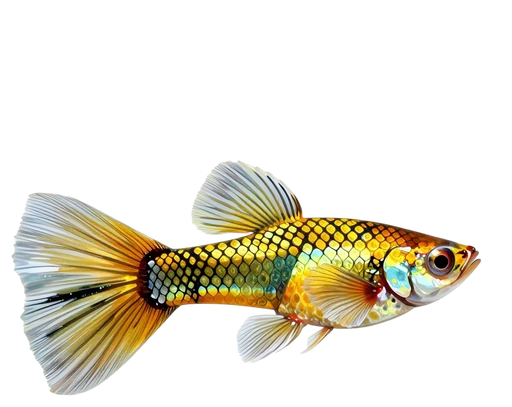
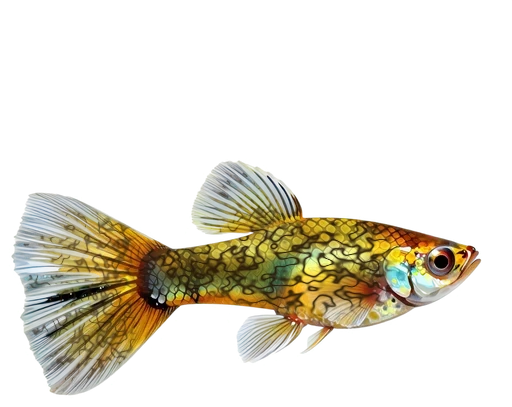
孔雀魚半月、燕尾、蛇王用程式重畫 (#269)
半月尾改成 D 字扇形，燕尾改成上下延長的尖刺鰭條，黃金蛇王與紅蛇王
身體和尾鰭加上蛇紋（對照 design/guppy-strain-audit.md）。新圖的身體
位置照基本款換算到 finArt bodyY。

Claude-Session: https://claude.ai/code/session_01KsbS4vLZbfPytVNgNzSz4q

Changed region(s): [[0.0625, 0.5012, 0.7812, 0.914], [0.0312, 0.6781, 0.125, 0.7076]]

diff --git a/src/render/painted.ts b/src/render/painted.ts
@@ -77,16 +77,17 @@ export const PAINTED: Record<string, PaintedSpec> = {
 
 /**
  * 緞帶、燕尾、半月的整條魚圖（5 種花紋各一張，art/fish/fins/）。
- * 緞帶下面多一大片垂下來的帶子，身體在圖裡偏上；半月的尾巴大，身體偏下。
+ * 緞帶下面多一大片垂下來的帶子，身體在圖裡偏上。
+ * 燕尾、半月是從基本款的圖用程式改尾巴做的（品系對照 design/guppy-strain-audit.md）：身體位置照基本款換算。
  */
 function finArt(): Record<string, PaintedSpec> {
   const bodyY: Record<string, [number, number, number]> = {
     // 花紋：緞帶、燕尾、半月的身體中心 y（相對圖高）
-    bluegrass: [-0.05, 0.03, 0.12],
-    cobra: [-0.05, 0.03, 0.1],
-    'albino-red': [-0.2, 0, 0.1],
-    tuxedo: [-0.18, 0.05, 0.09],
-    redcobra: [-0.24, 0.01, 0.13],
+    bluegrass: [-0.05, -0.086, -0.039],
+    cobra: [-0.05, -0.036, -0.028],
+    'albino-red': [-0.2, 0.173, 0.113],
+    tuxedo: [-0.18, -0.163, -0.096],
+    redcobra: [-0.24, 0.199, 0.111],
   };
   const out: Record<string, PaintedSpec> = {};
   for (const [pat, ys] of Object.entries(bodyY)) {
